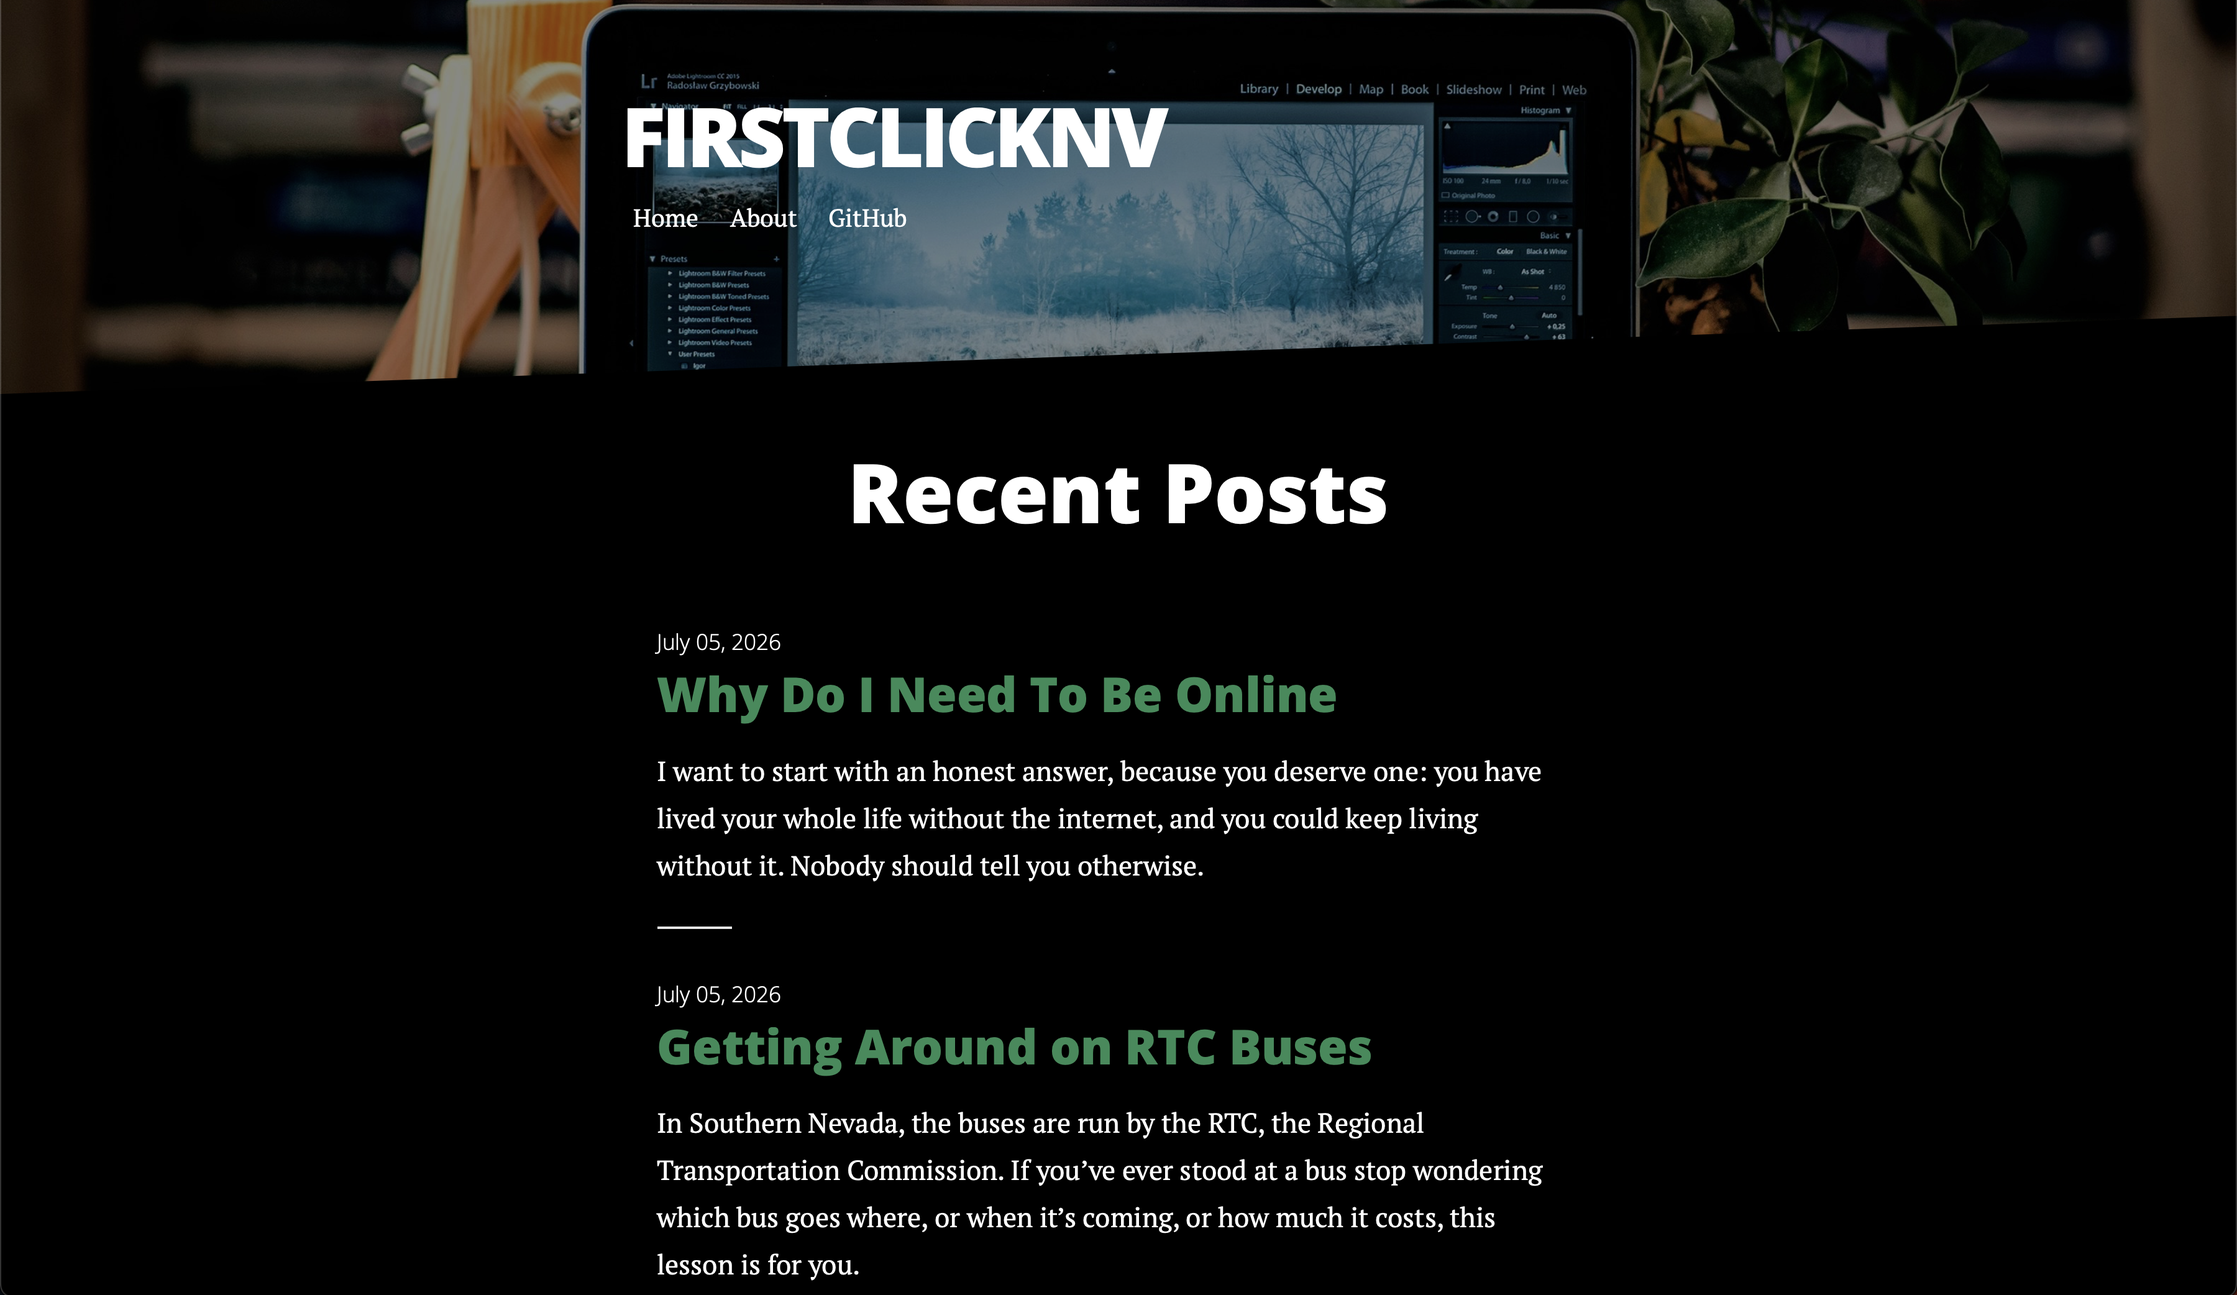
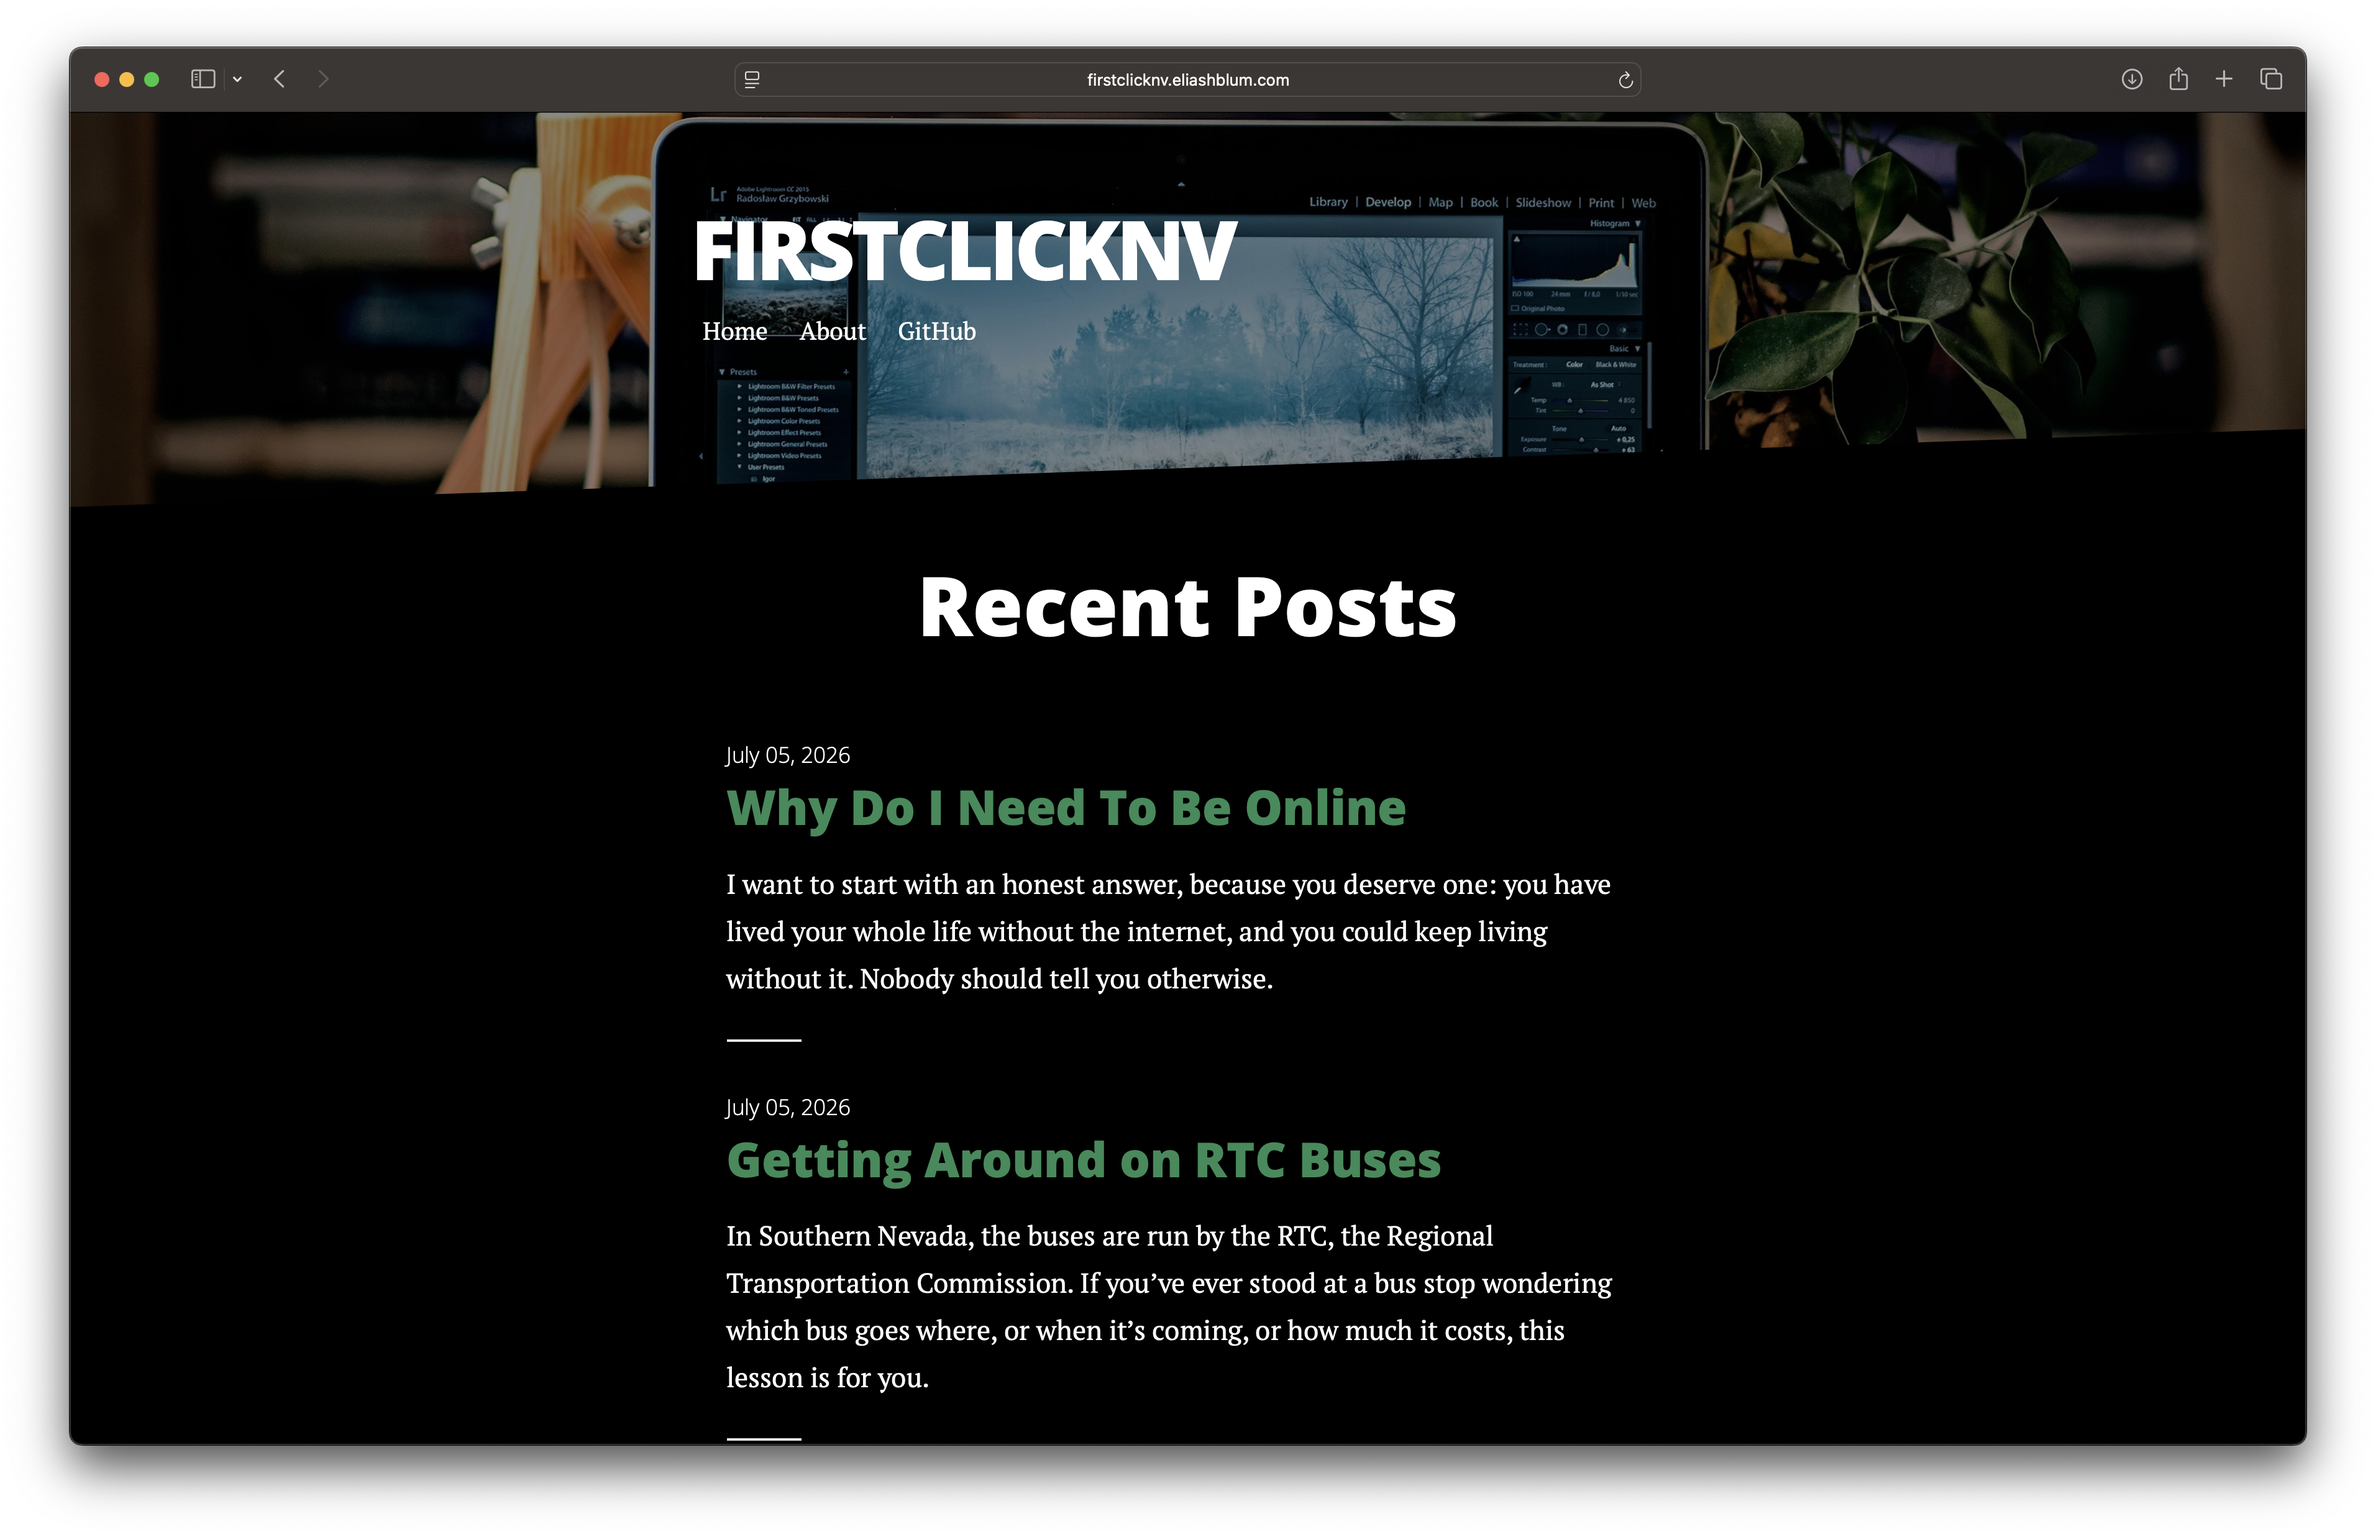
added shadow

diff --git a/index.html b/index.html
@@ -55,7 +55,7 @@
         <li>
           <a href="https://www.youtube.com/watch?v=cK-GFRyRJLo">Cyberguide</a>
           (Html, CSS, JavaScript)
-          <img src="ssCyberGuide.png" alt="Cyberguide Screenshot">
+          <img src="ssCyberGuide.png" style="width: 320px; height: 684px; margin-block: 2rem; box-shadow: 3px 16px 26px rgba(0, 0, 0, 0.25);" alt="Cyberguide Screenshot">
           <p>My entry for the 2021 Congressional App Challenge, awarded 3rd place. Cyberguide teaches and provides resources for staying safe online with hands on explanations of common attacks.</p>
         </li>
         <li>
@@ -76,7 +76,7 @@
         <li>
           <a href="https://eliashblum.com/JavaScript-Reference/">JavaScript Reference Exercises Collection</a>
           (JavaScript)
-          <p>A series of JavaScript language reference excercises to help understand JavaScript.</p>
+          <p>A series of JavaScript language reference excercises to help understand JavaScript.</p >
         </li>
       </ul>
       <h3>Hardware Projects</h3>
